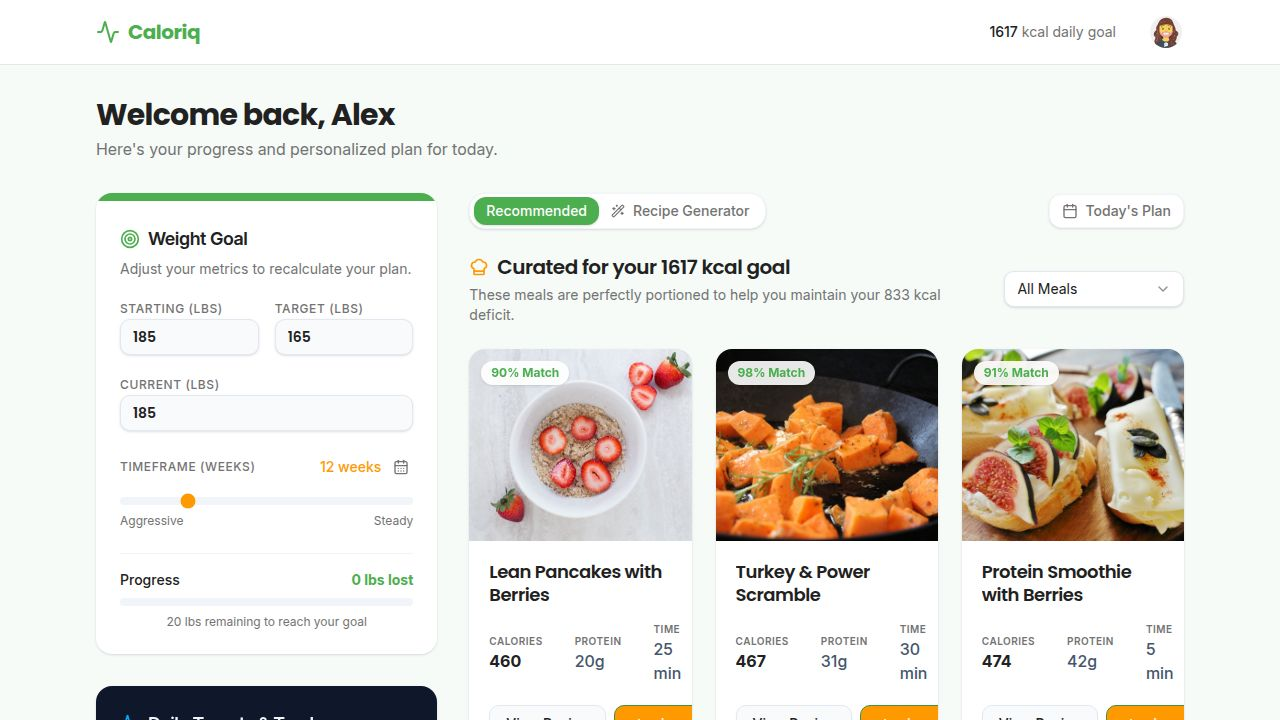
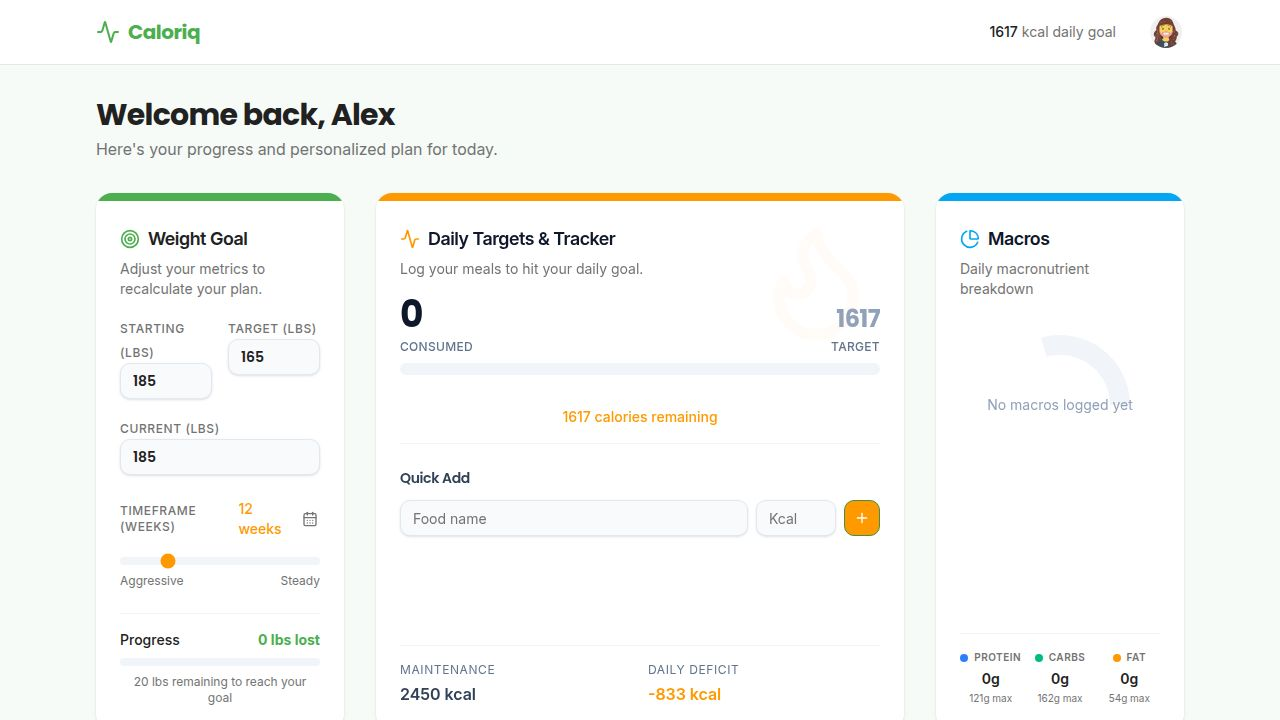
Update the Daily Targets card to match the new design
Adjusted the Daily Targets & Tracker card's styling to a light theme, including a white background, a colored top bar, and updated text colors to align with other components.

Replit-Commit-Author: Agent
Replit-Commit-Session-Id: d0c98cd4-3401-4b9a-9fcc-3167ef5b7d4c
Replit-Commit-Checkpoint-Type: full_checkpoint
Replit-Commit-Event-Id: 0d674a14-024e-4f8f-8836-dff33a3a46d5
Replit-Commit-Screenshot-Url: https://storage.googleapis.com/screenshot-production-us-central1/b5252e75-7d72-4a27-a063-837869a7ea78/d0c98cd4-3401-4b9a-9fcc-3167ef5b7d4c/B3xvBOA
Replit-Helium-Checkpoint-Created: true

diff --git a/client/src/pages/home.tsx b/client/src/pages/home.tsx
@@ -381,28 +381,29 @@ export default function Home() {
 
           <div className="lg:col-span-6 space-y-8">
             {/* Calories Tracker Card */}
-            <Card className="border-none shadow-sm bg-slate-900 text-white overflow-hidden relative">
-              <div className="absolute top-0 right-0 p-6 opacity-10">
-                <Flame className="h-32 w-32" />
+            <Card className="border-none shadow-sm bg-white overflow-hidden relative h-full flex flex-col">
+              <div className="h-2 bg-secondary w-full"></div>
+              <div className="absolute top-0 right-0 p-6 opacity-[0.03] pointer-events-none">
+                <Flame className="h-32 w-32 text-secondary" />
               </div>
               <CardHeader className="pb-4 relative z-10">
-                <CardTitle className="text-slate-100 flex items-center gap-2 text-lg">
-                  <Activity className="h-5 w-5 text-accent" />
+                <CardTitle className="text-slate-900 flex items-center gap-2 text-lg">
+                  <Activity className="h-5 w-5 text-secondary" />
                   Daily Targets & Tracker
                 </CardTitle>
-                <CardDescription className="text-slate-400">Log your meals to hit your daily goal.</CardDescription>
+                <CardDescription>Log your meals to hit your daily goal.</CardDescription>
               </CardHeader>
-              <CardContent className="relative z-10 space-y-6">
+              <CardContent className="relative z-10 flex-1 flex flex-col space-y-6">
                 
                 <div className="flex justify-between items-end mb-2">
                   <div>
-                    <div className="text-4xl font-display font-bold text-white tracking-tight">
+                    <div className="text-4xl font-display font-bold text-slate-900 tracking-tight">
                       {trackedFoods.reduce((acc, food) => acc + food.calories, 0)}
                     </div>
-                    <div className="text-slate-400 text-xs uppercase tracking-wide font-medium mt-1">Consumed</div>
+                    <div className="text-slate-500 text-xs uppercase tracking-wide font-medium mt-1">Consumed</div>
                   </div>
                   <div className="text-right">
-                    <div className="text-2xl font-display font-bold text-slate-500 tracking-tight">
+                    <div className="text-2xl font-display font-bold text-slate-400 tracking-tight">
                       {targetCalories}
                     </div>
                     <div className="text-slate-500 text-xs uppercase tracking-wide font-medium mt-1">Target</div>
@@ -411,36 +412,36 @@ export default function Home() {
 
                 <Progress 
                   value={Math.min(100, (trackedFoods.reduce((acc, food) => acc + food.calories, 0) / targetCalories) * 100)} 
-                  className="h-3 bg-slate-800" 
-                  indicatorClassName={trackedFoods.reduce((acc, food) => acc + food.calories, 0) > targetCalories ? "bg-red-500" : "bg-accent"}
+                  className="h-3 bg-slate-100" 
+                  indicatorClassName={trackedFoods.reduce((acc, food) => acc + food.calories, 0) > targetCalories ? "bg-red-500" : "bg-secondary"}
                 />
 
-                <div className="text-center text-sm font-medium pt-2 pb-4 border-b border-slate-800">
+                <div className="text-center text-sm font-medium pt-2 pb-4 border-b border-slate-100">
                   {targetCalories - trackedFoods.reduce((acc, food) => acc + food.calories, 0) > 0 ? (
-                    <span className="text-accent">{targetCalories - trackedFoods.reduce((acc, food) => acc + food.calories, 0)} calories remaining</span>
+                    <span className="text-secondary">{targetCalories - trackedFoods.reduce((acc, food) => acc + food.calories, 0)} calories remaining</span>
                   ) : (
-                    <span className="text-red-400">Over goal by {Math.abs(targetCalories - trackedFoods.reduce((acc, food) => acc + food.calories, 0))} calories</span>
+                    <span className="text-red-500">Over goal by {Math.abs(targetCalories - trackedFoods.reduce((acc, food) => acc + food.calories, 0))} calories</span>
                   )}
                 </div>
 
                 {/* Add Custom Food */}
                 <div className="space-y-3">
-                  <h4 className="text-sm font-semibold text-slate-300">Quick Add</h4>
+                  <h4 className="text-sm font-semibold text-slate-700">Quick Add</h4>
                   <div className="flex gap-2">
                     <Input 
                       placeholder="Food name" 
                       value={newFoodName}
                       onChange={(e) => setNewFoodName(e.target.value)}
-                      className="flex-1 bg-slate-800 border-slate-700 text-white placeholder:text-slate-500 text-sm h-9"
+                      className="flex-1 bg-slate-50 border-slate-200 text-sm h-9"
                     />
                     <Input 
                       type="number"
                       placeholder="Kcal" 
                       value={newFoodCalories}
                       onChange={(e) => setNewFoodCalories(e.target.value)}
-                      className="w-20 bg-slate-800 border-slate-700 text-white placeholder:text-slate-500 text-sm h-9"
+                      className="w-20 bg-slate-50 border-slate-200 text-sm h-9"
                     />
-                    <Button size="icon" onClick={handleAddFood} className="h-9 w-9 bg-accent hover:bg-accent/90 text-white shrink-0">
+                    <Button size="icon" onClick={handleAddFood} className="h-9 w-9 bg-secondary hover:bg-secondary/90 text-white shrink-0">
                       <Plus className="h-4 w-4" />
                     </Button>
                   </div>
@@ -448,17 +449,17 @@ export default function Home() {
 
                 {/* Logged Foods List */}
                 {trackedFoods.length > 0 && (
-                  <div className="space-y-3 pt-4 border-t border-slate-800">
-                    <h4 className="text-sm font-semibold text-slate-300">Today's Log</h4>
+                  <div className="space-y-3 pt-4 border-t border-slate-100">
+                    <h4 className="text-sm font-semibold text-slate-700">Today's Log</h4>
                     <div className="space-y-2 max-h-[180px] overflow-y-auto pr-1">
                       {trackedFoods.map(food => (
-                        <div key={food.id} className="flex justify-between items-center p-2 rounded-lg hover:bg-slate-800 border border-transparent hover:border-slate-700 group transition-colors">
-                          <span className="text-sm font-medium text-slate-200 truncate pr-2">{food.name}</span>
+                        <div key={food.id} className="flex justify-between items-center p-2 rounded-lg hover:bg-slate-50 border border-transparent hover:border-slate-100 group transition-colors">
+                          <span className="text-sm font-medium text-slate-700 truncate pr-2">{food.name}</span>
                           <div className="flex items-center gap-3 shrink-0">
-                            <span className="text-sm text-slate-400 font-semibold">{food.calories} kcal</span>
+                            <span className="text-sm text-slate-500 font-semibold">{food.calories} kcal</span>
                             <button 
                               onClick={() => handleRemoveFood(food.id)}
-                              className="text-slate-600 hover:text-red-400 transition-colors opacity-0 group-hover:opacity-100 focus:opacity-100"
+                              className="text-slate-400 hover:text-red-500 transition-colors opacity-0 group-hover:opacity-100 focus:opacity-100"
                             >
                               <X className="h-4 w-4" />
                             </button>
@@ -469,16 +470,16 @@ export default function Home() {
                   </div>
                 )}
                 
-                <div className="grid grid-cols-2 gap-4 pt-4 border-t border-slate-800">
+                <div className="grid grid-cols-2 gap-4 pt-4 border-t border-slate-100 mt-auto">
                   <div>
-                    <div className="text-slate-400 text-xs uppercase tracking-wider mb-1">Maintenance</div>
-                    <div className="font-semibold text-slate-200">{maintenanceCalories} kcal</div>
+                    <div className="text-slate-500 text-xs uppercase tracking-wider mb-1">Maintenance</div>
+                    <div className="font-semibold text-slate-700">{maintenanceCalories} kcal</div>
                   </div>
                   <div>
-                    <div className="text-slate-400 text-xs uppercase tracking-wider mb-1">
+                    <div className="text-slate-500 text-xs uppercase tracking-wider mb-1">
                       {isGainingWeight ? 'Daily Surplus' : 'Daily Deficit'}
                     </div>
-                    <div className="font-semibold text-accent">
+                    <div className="font-semibold text-secondary">
                       {isGainingWeight ? '+' : '-'}{Math.round(dailyDifference)} kcal
                     </div>
                   </div>
